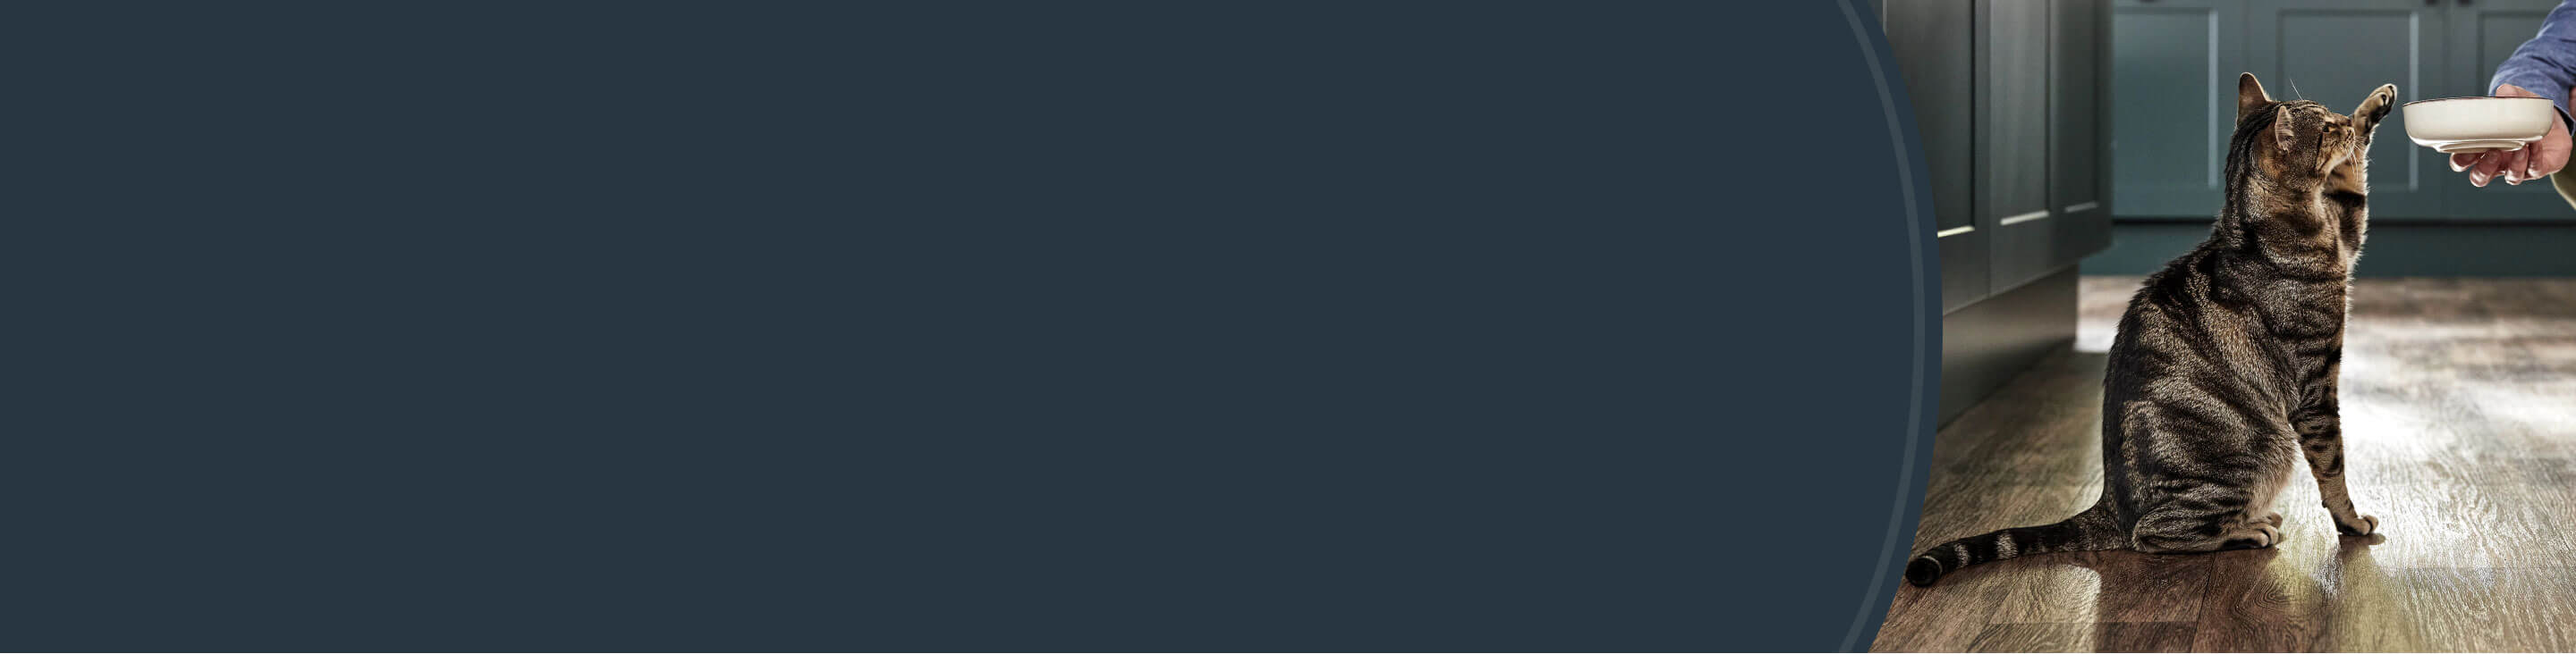
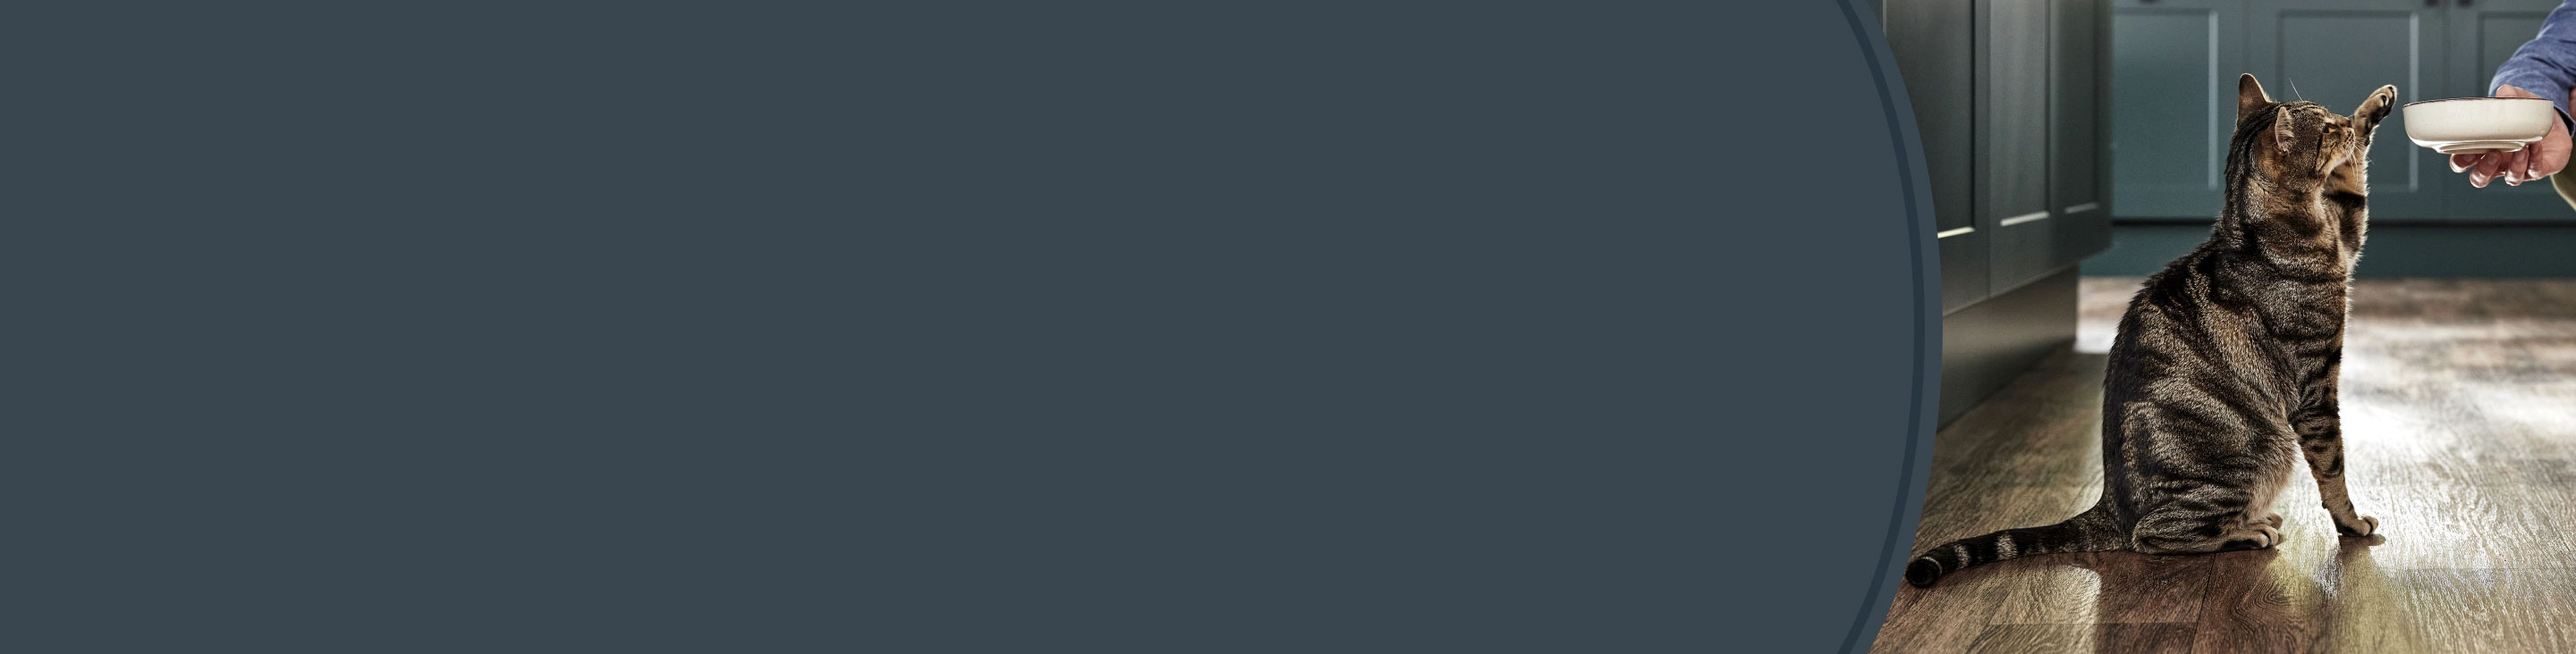
Hero bg updated for both dsk and mob

Changed region(s): [[0.0, 0.1202, 1.0, 1.0], [0.75, 0.3306, 0.7812, 0.3607]]

diff --git a/styles.css b/styles.css
@@ -342,7 +342,7 @@ body {
   .citrusStylesSE-applaws__hero {
     flex-direction: column;
     padding: 0 1%;
-    background: #283641;
+    background: #39454E;
     gap: 0;
   }
 
